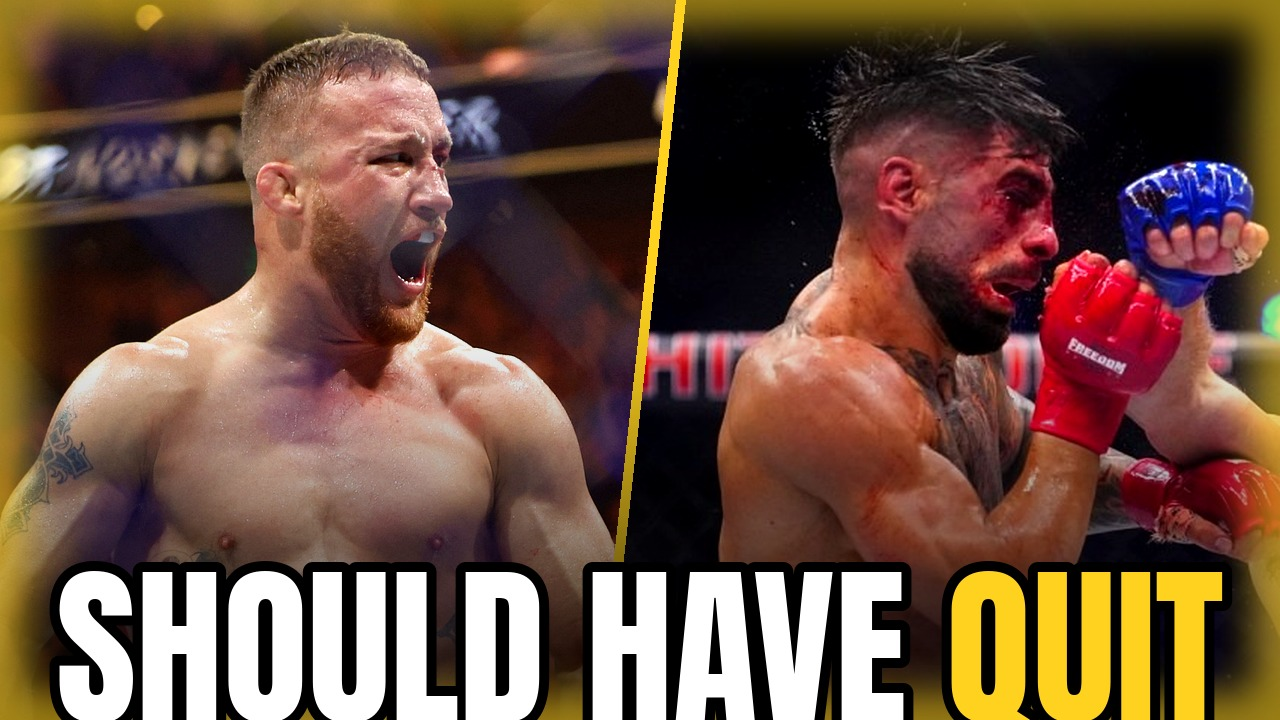
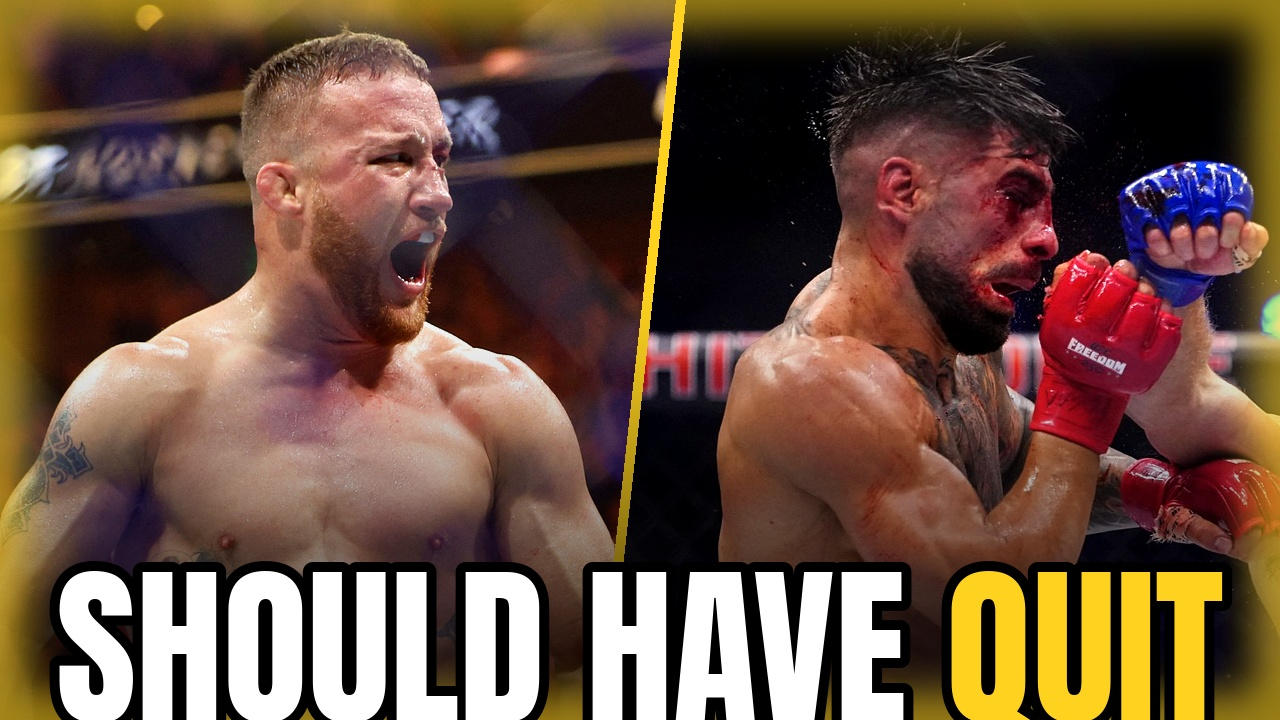
News: sharp thumbnails from original-size photos, deno installed automatically on the PC, Cage Dispatch name
Press sites serve the original when the resize parameters are dropped (1682 px instead of 1024); photos that
would need more than 1.25x upscaling are skipped. NEWS_PC.bat downloads a portable deno once (YouTube needs a
JavaScript runtime), so nothing has to be installed by hand. Cage Report was already taken on YouTube.

Claude-Session: https://claude.ai/code/session_015o5g6LdDicYeciswVaX7i1

diff --git a/services/newsvid_thumb.py b/services/newsvid_thumb.py
@@ -94,6 +94,21 @@ def other_person(who, text):
     return False
 
 
+def original(url):
+    """La plus grande version d'une image : sans les paramètres de redimensionnement (?w=1024, ?resize=…),
+    les sites de presse renvoient souvent l'original (Topuria : 1682 px au lieu de 1024)."""
+    best, best_px = None, 0
+    for u in dict.fromkeys([url.split("?")[0], url]):
+        try:
+            b = _get(u, 20)
+        except Exception:  # noqa: BLE001
+            continue
+        im = _load(b) if len(b) > 20000 else None
+        if im and im.width * im.height > best_px:
+            best, best_px = b, im.width * im.height
+    return best
+
+
 def yt_thumb(video_id):
     for q in ("maxresdefault", "hqdefault"):
         try:
@@ -169,12 +184,9 @@ def candidates(job_dir, plan, who, log=print):
     for x in bing_images(f"{who} UFC", 25) + bing_images(f"{who}", 20):
         if not names_ok(who, " ".join((x["url"], x["title"], x["page"])), others - {who}):
             continue
-        try:
-            b = _get(x["url"], 15)
-            if len(b) > 20000:
-                blobs.append((x["url"], b))
-        except Exception:  # noqa: BLE001
-            continue
+        b = original(x["url"])
+        if b:
+            blobs.append((x["url"], b))
     ims = [(src, _load(b)) for src, b in blobs]
     ims = [(src, im) for src, im in ims if im and min(im.size) >= 360]
 
@@ -182,7 +194,9 @@ def candidates(job_dir, plan, who, log=print):
         return x[0], x[1], rate(x[1], who)
     with ThreadPoolExecutor(max_workers=6) as ex:
         rated = list(ex.map(one, ims))
-    good = [(src, im, r) for src, im, r in rated if r.get("ok")]
+    def sharp(im, r):  # le cadrage de la miniature (visage × 2,6 sur 720 px de haut) sans agrandir plus de 1,25×
+        return (r["face"][3] - r["face"][1]) * im.height * 2.6 >= TH / 1.25
+    good = [(src, im, r) for src, im, r in rated if r.get("ok") and sharp(im, r)]
     good.sort(key=lambda x: -float(x[2].get("score") or 0))
     log(f"{who} : {len(good)}/{len(rated)} photos utilisables")
     return good

diff --git a/services/newsvid.py b/services/newsvid.py
@@ -35,7 +35,7 @@ from services import ai
 CHANNELS = {
     "mma_en": {
         "name": "MMA news (UFC)", "sport": "MMA / UFC", "language": "en",
-        "brand": "CAGE REPORT", "handle": "",
+        "brand": "CAGE DISPATCH", "handle": "",
         "accent": "#E10600", "accent2": "#FFD21F",
         "voice_provider": "algrow", "voice": "jvV8uNVYXJa37GHVtjXf",  # Joe Stokes, présentateur radio US
         "minutes": 18,
@@ -52,7 +52,7 @@ CHANNELS = {
     },
     "boxing_en": {
         "name": "Boxing news", "sport": "Boxing", "language": "en",
-        "brand": "RING REPORT", "handle": "",
+        "brand": "RING DISPATCH", "handle": "",
         "accent": "#D4A017", "accent2": "#FFFFFF",
         "voice_provider": "algrow", "voice": "jvV8uNVYXJa37GHVtjXf",
         "minutes": 18,
@@ -62,7 +62,7 @@ CHANNELS = {
     },
     "football_en": {
         "name": "Football news", "sport": "Football (soccer)", "language": "en",
-        "brand": "PITCH REPORT", "handle": "",
+        "brand": "PITCH DISPATCH", "handle": "",
         "accent": "#1DB954", "accent2": "#FFFFFF",
         "voice_provider": "algrow", "voice": "jvV8uNVYXJa37GHVtjXf",
         "minutes": 18,
@@ -222,6 +222,10 @@ def fetch_captions(video_id, dest_dir):
 def yt_js_args():
     """yt-dlp a besoin d'un moteur JavaScript pour YouTube : deno (par défaut) ou node."""
     import shutil
+    local = os.path.join(os.path.dirname(os.path.dirname(os.path.abspath(__file__))), "tools", "deno",
+                         "deno.exe" if os.name == "nt" else "deno")
+    if os.path.isfile(local):
+        return ["--js-runtimes", f"deno:{local}"]
     if shutil.which("deno"):
         return []
     if shutil.which("node"):

diff --git a/production/news.py b/production/news.py
@@ -183,7 +183,7 @@ def git(*args, check=False):
 
 def cmd_pc():
     """PC : récupère les vidéos à monter, les monte, renvoie le résultat (lien + planches) dans git."""
-    subprocess.run([sys.executable, "-m", "pip", "install", "-q", "-U", "yt-dlp"], check=False)
+    subprocess.run([sys.executable, "-m", "pip", "install", "-q", "-U", "yt-dlp[default]"], check=False)
     r = git("pull", "--ff-only")
     print(r.stdout.strip() or r.stderr.strip())
     todo = []

diff --git a/chaines/_nouvelles/README.md b/chaines/_nouvelles/README.md
@@ -69,3 +69,13 @@ Format copié sur **Fight Night MMA** (@mmafightnightyt : 13,9k abonnés, 8,9M d
 **Titres** : « "CITATION CHOC!" X DESTROYS / FIRES BACK AT Y For … ! » (clickbait léger : la citation doit être vraiment dite).
 
 **Miniature** : vraies photos des combattants, énorme citation blanc/rouge/jaune contour noir, parfois une photo encadrée en vert.
+
+### Noms de chaîne (vérifiés libres sur YouTube le 3 oct. 2026 : @nom inexistant + aucune chaîne à ce nom)
+
+« CAGE REPORT » était déjà pris (@CageReport). Famille conseillée, libre pour les trois sports :
+**Cage Dispatch** (MMA) · **Ring Dispatch** (boxe) · **Pitch Dispatch** (foot).
+Autres noms MMA libres : Cageside Wire (+ Ringside Wire, Pitchside Wire), Cage Ticker, Cage Scoop, Corner Wire.
+Pris : Cage Report, Cage Wire, Cage Brief, Cage Desk, Fight Dispatch (« Fight Dispatch MMA »), Clinch Report,
+Ring Scoop, Ring Rundown. « Octagon » évité : marque déposée de l'UFC.
+Vérifier juste avant de créer la chaîne : `curl -o /dev/null -w '%{http_code}' https://www.youtube.com/@Nom`
+(404 = libre) + recherche NexLev `youtube_search` type channel sur le nom exact.
